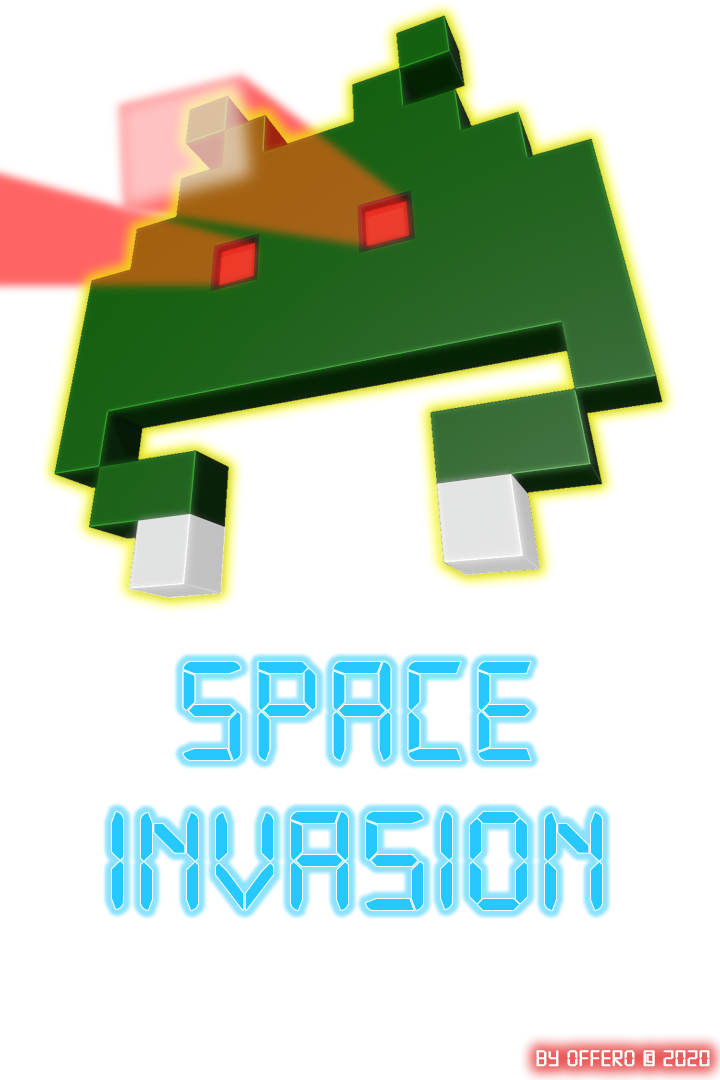
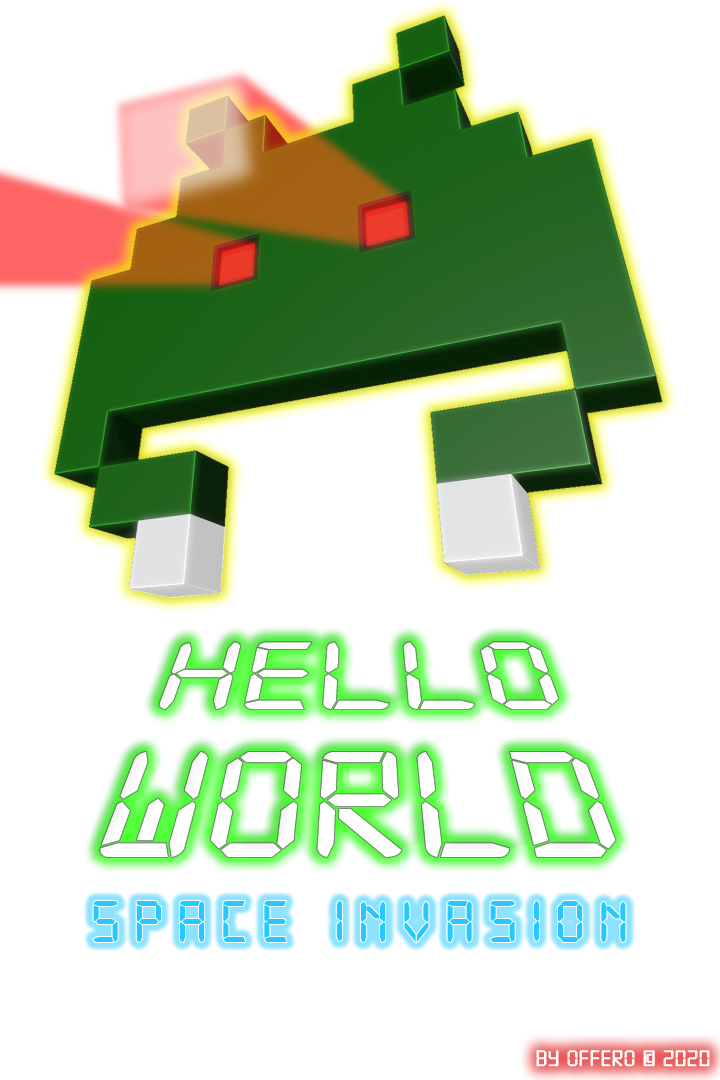
Name Change + UI + Upgrades

Changed region(s): [[0.0917, 0.5806, 0.8861, 0.8861]]

diff --git a/js/player.js b/js/player.js
@@ -9,10 +9,14 @@ function healthBulletUpgradeSpawn(_spawnXY,_fU='') {
         let hpChances = [0,0,0,0,0,0,0,0];
         if (vP.hitpoints>=150) {
             // this player has a lot of health
-            // max increase is 3
-            hpChances[0] +=1; hpChances[1] +=0; hpChances[2] +=0;   // hp upgrades
-            hpChances[3] +=3; hpChances[4] +=1;                     // bullet upgrades
-            hpChances[5] +=2; hpChances[6] +=3; hpChances[7] +=2;   // points
+            if (vP.hitpoints>=225) { // players max hp = 250 so health doesnt drop after 224hp
+                hpChances[0] +=0;
+            } else {
+                hpChances[0] +=1;
+            }
+                              hpChances[1] +=0; hpChances[2] +=0;   // hp upgrades
+            hpChances[3] +=2; hpChances[4] +=1;                     // bullet upgrades
+            hpChances[5] +=1; hpChances[6] +=2; hpChances[7] +=3;   // points
         } else if (vP.hitpoints>=125) {
             hpChances[0] +=1; hpChances[1] +=1; hpChances[2] +=0;
             hpChances[3] +=2; hpChances[4] +=2;
@@ -20,16 +24,28 @@ function healthBulletUpgradeSpawn(_spawnXY,_fU='') {
         } else if (vP.hitpoints>=100) {
             hpChances[0] +=1; hpChances[1] +=1; hpChances[2] +=0;
             hpChances[3] +=1; hpChances[4] +=1;
-            hpChances[5] +=3; hpChances[6] +=2; hpChances[7] +=1;
+            hpChances[5] +=2; hpChances[6] +=3; hpChances[7] +=1;
         } else if (vP.hitpoints>=75) {
-            hpChances[0] +=1; hpChances[1] +=2; hpChances[2] +=1;
-            hpChances[3] +=2; hpChances[4] +=2;
-            hpChances[5] +=2; hpChances[6] +=1; hpChances[7] +=0;
+            if (vars.levels.wave>=20) {
+                hpChances[0] +=1; hpChances[1] +=3; hpChances[2] +=2;
+                hpChances[3] +=1; hpChances[4] +=1;
+                hpChances[5] +=1; hpChances[6] +=0; hpChances[7] +=0;
+            } else {
+                hpChances[0] +=1; hpChances[1] +=2; hpChances[2] +=2;
+                hpChances[3] +=2; hpChances[4] +=2;
+                hpChances[5] +=2; hpChances[6] +=1; hpChances[7] +=0;
+            }
         } else { // below 75hp
             // this player really needs health, increase the chance of that happening (especially high hp bumps currently 50 and 75)
-            hpChances[0] +=1; hpChances[1] +=3; hpChances[2] +=2;
-            hpChances[3] +=1; hpChances[4] +=3;
-            hpChances[5] +=1; hpChances[6] +=0; hpChances[7] +=0;
+            if (vars.levels.wave>=20) { // its starting to get difficult now... give the player an hp upgrade
+                hpChances[0] +=1; hpChances[1] +=2; hpChances[2] +=4;
+                hpChances[3] +=0; hpChances[4] +=0;
+                hpChances[5] +=0; hpChances[6] +=0; hpChances[7] +=0;
+            } else {
+                hpChances[0] +=0; hpChances[1] +=2; hpChances[2] +=3;
+                hpChances[3] +=2; hpChances[4] +=3;
+                hpChances[5] +=1; hpChances[6] +=0; hpChances[7] +=0;
+            }
         }
 
         let ssV = vP.ship.special;
@@ -146,6 +162,7 @@ function playerHit(_player, _bullet) {
         _bulletStrength =  Phaser.Math.Clamp(_bulletStrength*mult,1,max);
         if (pV.hitpoints-(_bulletStrength)>0) {
             pV.hitpoints=~~(pV.hitpoints - _bulletStrength);
+            vars.UI.hpUpdate();
             vars.cameras.flash('red', 1000);
             scene.sound.play('playerHit');
             //console.log('HP: ' + pV.hitpoints + ', bulletStrength: ' + _bulletStrength);
@@ -167,6 +184,7 @@ function playerHit(_player, _bullet) {
 
         } else { // player is dead
             console.log('%cPLAYER IS DEAD', 'background-color: red; color: black');
+            scene.children.getByName('hpTextInt').setText('Destroyed!');
             vars.cameras.shake(cam1, 750);
             /* vars.game.pause(); */
             vars.game.started=false; // this tells us that we have died, now using the variable pV.isDead
@@ -191,9 +209,8 @@ function shipPowerUpPickUp(_upgrade) {
         console.log('%cUpgrade HP: +' + upgradeValue, vars.console.playerUpgrade);
         scene.sound.play('speechHP');
         pV.hitpoints+=upgradeValue;
+        vars.UI.hpUpdate();
         pV.shieldChange(true);
-        // upgrade the ship frame TODO
-        // we can probably use player hit to set the shield colour
     } else if (upgradeType==='b') { // bullet upgrades last for 5 seconds
         if (upgradeValue===0) { // double damage
             console.log('%cUpgrade Bullet: Double Damage', vars.console.playerUpgrade);
@@ -264,6 +281,7 @@ function shipUpgradePickUp(_pickup) {
     _pickup.destroy();
     player.setFrame(upgradeTo);
     pV.hitpoints+=30*upgradeTo; // player gets a boost to hp based on upgrade type
+    vars.UI.hpUpdate();
     if (pV.hitpoints<115 && upgradeTo===1) { // upgrade 1: does the player still have less than 115 hp?
         pV.hitpoints=115; // minimum upgrade takes us to 115 hp. Same for upgrade 2 below
     } else if (pV.hitpoints<130 && upgradeTo===2) { // upgrade 2: does the player still have less than 130 hp?

diff --git a/js/_vars.js b/js/_vars.js
@@ -79,6 +79,18 @@ var vars = {
             let vC = vars.canvas;
             vC.cX = vC.width/2;
             vC.cY = vC.height/2;
+        },
+
+        setCursor: function(_type='none') {
+            if (_type==='none') {
+                scene.sys.canvas.style.cursor = 'none';
+            } else if (_type==='cross' || _type==='default') {
+                scene.sys.canvas.style.cursor = 'crosshair';
+            } else if (_type==='def') {
+                scene.sys.canvas.style.cursor = 'default';
+            } else {
+                console.log('Unknown Cursor Type');
+            }
         }
     },
 
@@ -112,18 +124,20 @@ var vars = {
         playerUpgrade: 'font-size: 14px; color: green; background-color: white;',
     },
 
-    DEBUG: false,
-    VERBOSE: false,
-
-    DEBUGHIDE: true,
-    DEBUGTEXT: '',
-
     input: {
         init: function() {
             let musicKey = scene.input.keyboard.addKey('M');
             musicKey.on('up', vars.audio.musicEnableDisable);
         }
     },
+
+    DEBUG: false,
+    VERBOSE: false,
+
+    DEBUGHIDE: true,
+    DEBUGTEXT: '',
+    version : '0.914ᵦ',
+
 
 
     audio: {
@@ -204,6 +218,7 @@ var vars = {
         bulletDamage: 1,
         cthulhuSpotted: false,
         deadSinceLastPowerup: 0,
+        deathTotal: 0,
 
         bossPaths: [], // these are built at run time. All boss paths are set, unlike standard enemy attack paths which start at the enemy xy
         colours: [
@@ -461,6 +476,14 @@ var vars = {
             theBullet.setVelocity(_xSpeed, _speed);
         },
 
+        deathCountIncrease: function() {
+            let eV = vars.enemies;
+            eV.deathTotal+=1;
+            // update the dead total text
+            let deaths = scene.children.getByName('deathTextInt');
+            deaths.setText(eV.deathTotal);
+        },
+
         debugBossPatterns: function() {
             let graphics = scene.add.graphics();
             graphics.lineStyle(1, 0xffffff, 1);
@@ -566,15 +589,15 @@ var vars = {
                 counter++;
                 let cutA = lL - (cut * (counter+1));
                 let cutB = lL - (cut * (counter));
-                console.log('Cutting from ' + cutA + ' to ' + cutB);
+                //console.log('Cutting from ' + cutA + ' to ' + cutB);
                 let originalArray = this.list.slice(cutA, cutB); // grab the last row
                 for (let id=0; id<originalArray.length; id++) {
                     let replaceWith = a[id];
                     let swapping = enemies.children.getArray()[replaceWith];
-                    console.log('Replacing ' + originalArray[id].name + ' with ' + swapping.name + ' (position ' + replaceWith + ')' );
+                    //console.log('Replacing ' + originalArray[id].name + ' with ' + swapping.name + ' (position ' + replaceWith + ')' );
                     // get the current frames for the enemies
                     let scale = vars.game.scale;
-                    let original = [originalArray[id].x * scale + 20, originalArray[id].y * scale];
+                    let original = [originalArray[id].x * scale, originalArray[id].y * scale];
                     let swap = [swapping.x, swapping.y];
                     // now swap them over
                     swapping.setPosition(original[0],original[1]);
@@ -691,7 +714,7 @@ var vars = {
                 // cameras
                 vars.cameras.init();
                 vars.cameras.ignore(cam2, player);
-                
+
                 // if debug is enabled add the debug overlay
                 if (vars.DEBUGHIDE===false) {
                     vars.DEBUGTEXT = scene.add.text(0, 0, '', { font: '12px consolas', fill: '#ffffff' });
@@ -719,6 +742,7 @@ var vars = {
                     c.destroy();
                 })
             }
+            vars.canvas.setCursor('none');
             //player.anims.stop(); // player is no longer animated
         },
 
@@ -746,6 +770,7 @@ var vars = {
             })
             vars.cameras.ignore(cam2, enemies);
             vars.levels.wavePopupVisible=false;
+            vars.canvas.setCursor('cross');
         },
 
         unpauseAfterHighlight: function() {
@@ -1497,6 +1522,10 @@ var vars = {
             scene.children.getByName('highlightConnector').destroy();
             // unpause all the things
             vars.game.unpauseAfterHighlight();
+        },
+
+        hpUpdate: function() {
+            scene.children.getByName('hpTextInt').setText(vars.player.hitpoints);
         }
     },
 

diff --git a/js/game.js b/js/game.js
@@ -32,6 +32,57 @@ function powerUpUpdate() {
     }
 }
 
+function storyInit() {
+    console.log('Checking version of phaser');
+    vars.versionCheck();
+    vars.canvas.setCursor('none');
+
+    // START THE STORY SCROLLER
+    vars.game.storyVisible = true;
+    storyText = scene.add.bitmapText(0, vars.canvas.height, 'azo', vars.story.introText, 48).setCenterAlign().setAlpha(0).setMaxWidth(vars.canvas.width-20).setName('introStory');
+    storyText.x=10;
+    let scrollHeight = storyText.height;
+    let duration = scrollHeight*15;
+
+    scene.tweens.add({
+        targets: storyText,
+        alpha: 0.7,
+        ease: 'linear',
+        duration: 5000,
+    })
+
+    scene.tweens.add({
+        targets: storyText,
+        y: -scrollHeight,
+        ease: 'linear',
+        duration: duration,
+        onComplete: startGame,
+    })
+
+    // we fade out the loading image on click, so we need to set up a slight pause (3s) before enabling the intro skip
+    setTimeout( function() { storySkipEnable(); }, 5000)
+}
+
+function storySkipEnable() {
+    window.onmousedown = function(e) {
+        if (vars.game.storyVisible===true) {
+            let iV = scene.children.getByName('introVideo');
+            scene.tweens.add({
+                targets: [storyText, iV],
+                alpha: 0,
+                duration: 3000,
+                onComplete: storyTextSpeedUp,
+            })
+            vars.game.storyVisible = false;
+        }
+    }
+}
+
+function storyTextSpeedUp() {
+    vars.game.storyVisible = false;
+    tw = scene.tweens.getTweensOf(storyText);
+    tw[0].setTimeScale(1000);
+}
 
 function startGame() {
     // stop the intro video
@@ -39,11 +90,15 @@ function startGame() {
     // set up the score text
     scene.children.getByName('levelBG').setVisible(true);
     vars.game.started=true;
-    let scoreTitle = scene.add.bitmapText(10, 20, 'azo', 'Score:', 24).setOrigin(0);
-    let score = scene.add.bitmapText(120, 20, 'azo', vars.game.scores.current, 24).setOrigin(0).setName('scoreTextInt');
-    let waveTitle = scene.add.bitmapText(vars.canvas.width*0.69, 20, 'azo', 'Wave:', 24).setOrigin(0);
-    let wave = scene.add.bitmapText(vars.canvas.width*0.69+105, 20, 'azo', vars.levels.wave+89865, 24).setOrigin(0).setName('waveTextInt');
-    scoreGroup.addMultiple([scoreTitle, score, waveTitle, wave]);
+    let scoreTitle = scene.add.bitmapText(10, 5, 'azo', 'Score:', 24).setOrigin(0);
+    let score = scene.add.bitmapText(120, 5, 'azo', vars.game.scores.current, 24).setOrigin(0).setName('scoreTextInt');
+    let waveTitle = scene.add.bitmapText(vars.canvas.width*0.69, 5, 'azo', 'Wave:', 24).setOrigin(0);
+    let wave = scene.add.bitmapText(vars.canvas.width*0.69+105, 5, 'azo', vars.levels.wave+89865, 24).setOrigin(0).setName('waveTextInt');
+    let deathsTitle = scene.add.bitmapText(vars.canvas.width*0.35, 1080-30, 'azo', 'Enemies destroyed:', 24).setOrigin(0);
+    let deaths = scene.add.bitmapText(vars.canvas.width*0.35+300, 1080-30, 'azo', vars.enemies.deathTotal, 24).setOrigin(0).setName('deathTextInt');
+    let hpTitle = scene.add.bitmapText(10, 1080-30, 'azo', 'HP:', 24).setOrigin(0);
+    let hp = scene.add.bitmapText(65, 1080-30, 'azo', vars.player.hitpoints, 24).setOrigin(0).setName('hpTextInt');
+    scoreGroup.addMultiple([scoreTitle, score, waveTitle, wave, deathsTitle, deaths, hpTitle, hp]);
     cam1.ignore(scoreGroup);
 
     // delete the intro music

diff --git a/js/text.js b/js/text.js
@@ -15,52 +15,6 @@ vars.story.introText += 'Now go out there and destroy those invading, human hati
 vars.story.introText += '* regarding the data leaks of 1985 resulting in the enemy now possessing our weapons: It was found out that one of the ranking members of the AC were accidentally leaking secrets to the NES group as they were using an old version of the Wyndeez operating system after following a You-Upload-Your-\nVideos-To-Here-For-\nOthers-To-See-Like\n-The-TV-But-Well-\nJust-Try-It-Youll-\nSee-Its-Really-Good (admittedly a terrible name) tutorial on "disabling automatic updates". Naturally the AC were embarrassed, making a full apology and posting it to ReadIt after a full inquiry was done. It turned out that some intern who had only been with the AC for about two weeks but had since magically disappeared was the cause for the lapse in security. Ironically, the information the NES group were gathering was also being taken by the enemy using a similar method. Weirdly, this same employee apparently worked for NES and was also the cause of their data leaks. The original 26 of the AC have vowed to find this intern and hold them accountable.' + nl;
 vars.story.introText += 'FOOTNOTE: The only possible place shade field technology might still be used is when the enemies reach our inner atmosphere, where their entire ship would change color (usually to a golden yellow). It has no known defensive or offensive impact.' + nl;
 
-function storyInit() {
-    console.log('Checking version of phaser');
-    vars.versionCheck();
-
-    // START THE STORY SCROLLER
-    vars.game.storyVisible = true;
-    storyText = scene.add.bitmapText(0, vars.canvas.height, 'azo', vars.story.introText, 48).setCenterAlign().setAlpha(0.7).setMaxWidth(vars.canvas.width-20).setName('introStory');
-    storyText.x=10;
-    let scrollHeight = storyText.height;
-    let duration = scrollHeight*15;
-
-    scene.tweens.add({
-        targets: storyText,
-        y: -scrollHeight,
-        ease: 'linear',
-        duration: duration,
-        onComplete: startGame,
-    })
-
-    // we fade out the loading image on click, so we need to set up a slight pause (3s) before enabling the intro skip
-    setTimeout( function() { enableIntroSkip(); }, 1000)
-}
-
-function enableIntroSkip() {
-    window.onmousedown = function(e) {
-        if (vars.game.storyVisible===true) {
-            let iV = scene.children.getByName('introVideo');
-            scene.tweens.add({
-                targets: [storyText, iV],
-                alpha: 0,
-                duration: 3000,
-                onComplete: storyTextSpeedUp,
-            })
-            vars.game.storyVisible = false;
-            scene.sys.canvas.style.cursor = 'crosshair';
-        }
-    }
-}
-
-
-
-function storyTextSpeedUp() {
-    vars.game.storyVisible = false;
-    tw = scene.tweens.getTweensOf(storyText);
-    tw[0].setTimeScale(1000);
-}
 
 /* 
 1978 - Arcade

diff --git a/js/entry.js b/js/entry.js
@@ -60,7 +60,7 @@ function preload() {
 
     // LOADING PROGRESS UI STUFF
     preloadText = scene.add.text(vars.canvas.cX, vars.canvas.height-65, 'Loading...', { fontSize: 20, fontFamily: 'consolas', fill: '#444' }).setOrigin(0.5,0.5);
-    versionText = scene.add.text(200, vars.canvas.height-20, 'VERSION 0.908 beta', { fontSize: 20, fontFamily: 'consolas', fill: '#F00' }).setOrigin(1,0.5).setName('version');
+    versionText = scene.add.text(200, vars.canvas.height-20, 'VERSION ' + vars.version, { fontSize: 20, fontFamily: 'consolas', fill: '#F00' }).setOrigin(1,0.5).setName('version');
 
     scene.load.on('fileprogress', function (file) { preloadText.setText('Loading asset: ' + file.key); }); // as external file loads
     scene.load.on('complete', function () { preloadText.destroy(); preloadText=undefined; });
@@ -190,7 +190,7 @@ function create() {
     let loaded = scene.add.image(vars.canvas.cX, vars.canvas.height-95, 'loaded').setName('loaded');
     scene.tweens.add({
         targets: loaded,
-        scale: 0.7,
+        scale: 0.69,
         ease: 'Bounce',
         duration: 3000,
         repeat: -1,
@@ -241,7 +241,7 @@ function create() {
     bG = scene.add.image(0,0,'levelBackground').setScale(vars.canvas.width,1).setOrigin(0,0).setName('levelBG').setVisible(false).setDepth(0);
     vars.game.generateWaterWaves(); // the waves are created then hidden so they can be faded in on level 10
     // night time mask used on level 5 - 15
-    let nTM = scene.add.image(vars.canvas.cX, vars.canvas.height,'nightTimeMask').setOrigin(0.5,1).setAlpha(0).setName('nightTimeMask');
+    scene.add.image(vars.canvas.cX, vars.canvas.height,'nightTimeMask').setOrigin(0.5,1).setAlpha(0).setName('nightTimeMask');
 
     // draw the player
     let sV = vars.player.ship;

diff --git a/js/enemy.js b/js/enemy.js
@@ -400,6 +400,8 @@ function enemyBossHit(_bullet, _boss) {
 
 function enemyBossShow(_tween, _target, _boss) {
     _boss.setVisible(true);
+    let index = _boss.getData('enemyType');
+    _boss.play('e.hover' + index)
     let bossType = _boss.getData('enemyType');
     if (bossType===5) { // cthulhu has his own shader which is only stopped upon his death
 
@@ -504,6 +506,7 @@ function enemyDeath(enemy) {
     //console.log('Enemy has died, creating death tween...');
     enemy.disableBody(); // disable interaction with bullets
     enemy.setData('dead', true); // set the enemy to dead so it doesnt get counted in enemy win condition
+    vars.enemies.deathCountIncrease();
     scene.sound.play('enemyExplode');
     vars.cameras.flash('white', 100);
     let xMove = Phaser.Math.RND.between(30,100);

diff --git a/js/ui.js b/js/ui.js
@@ -5,7 +5,7 @@ function uiGameOver() {
     gV.scores.current = 0;
 
     let gameOverText = scene.add.bitmapText(vars.canvas.cX, vars.canvas.cY, 'azo', 'Game Over!', 64).setOrigin(0.5).setAlpha(0);
-    console.log(' FADING IN GAME OVER');
+    //console.log(' FADING IN GAME OVER');
     scene.tweens.add({
         targets: gameOverText,
         y: 200,
